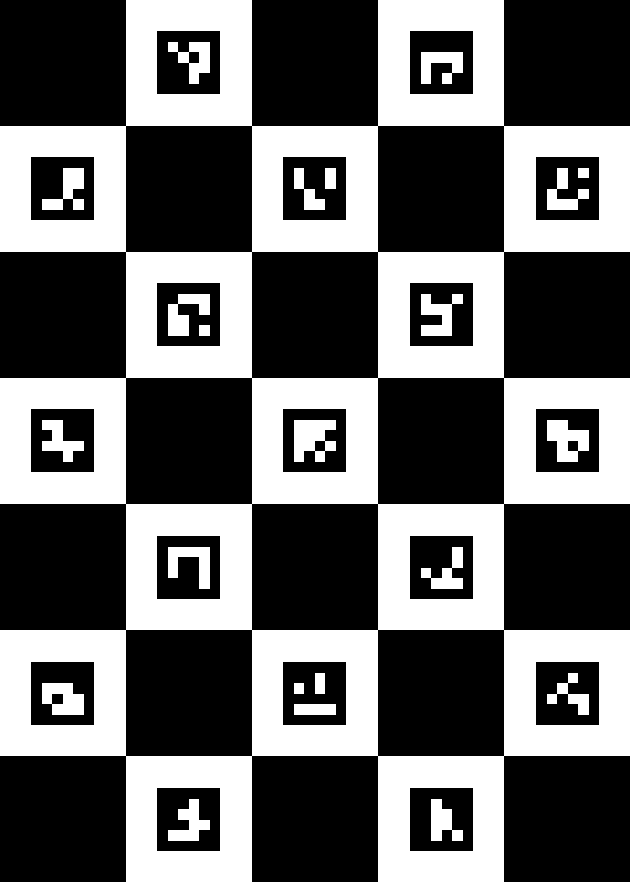
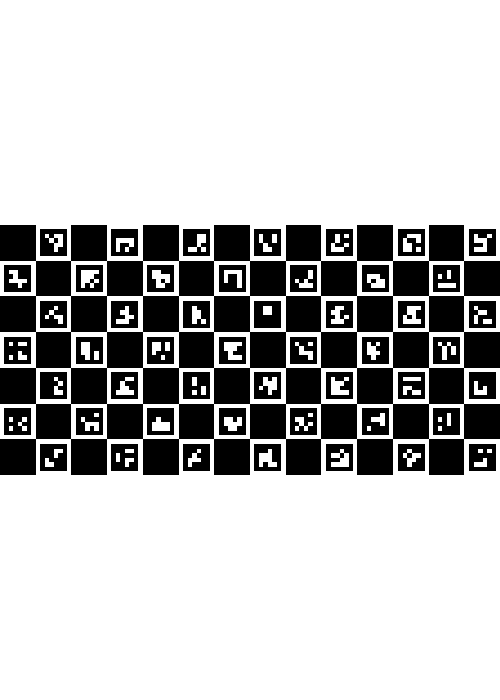
generation with own script works

diff --git a/GenerateCharucoBoard_JoFe.py b/GenerateCharucoBoard_JoFe.py
@@ -1,0 +1,29 @@
+import cv2
+import numpy as np
+import matplotlib.pyplot as plt
+
+# Set parameters for the Charuco board
+squaresX = 10  # Number of squares in X direction
+squaresY = 7  # Number of squares in Y direction
+squareLength = 0.04  # Square side length (in meters)
+markerLength = 0.02  # Marker side length (in meters)
+
+# Create Charuco board
+aruco_dict = cv2.aruco.getPredefinedDictionary(cv2.aruco.DICT_6X6_250)
+charuco_board = cv2.aruco.CharucoBoard((squaresX, squaresY), squareLength, markerLength, aruco_dict)
+
+# Generate Charuco board image
+board_img = charuco_board.generateImage((200 * squaresX, 200 * squaresY))
+
+# Display the image
+cv2.imshow("Generated Charuco Board", board_img)
+cv2.waitKey(0)
+cv2.destroyAllWindows()
+
+# Save as SVG
+fig, ax = plt.subplots(figsize=(squaresX, squaresY))
+ax.imshow(board_img, cmap='gray')
+ax.axis('off')
+
+# Save figure as SVG
+plt.savefig("charuco_board.svg", format='svg')

diff --git a/GenerateCharucoBoard.py b/GenerateCharucoBoard.py
@@ -22,10 +22,10 @@ def main():
     # Create Charucoboard object
     board = CharucoBoard(
         dict_type="4X4_50",
-        square_row=5,
+        square_row=14,
         square_col=7,
-        square_length_mm=40,  # meter
-        marker_length_mm=30,  # meter
+        square_length_mm=1000,  # meter
+        marker_length_mm=900,  # meter
     )
 
     # Generate Aruco Marker (marker id, size of marker)
